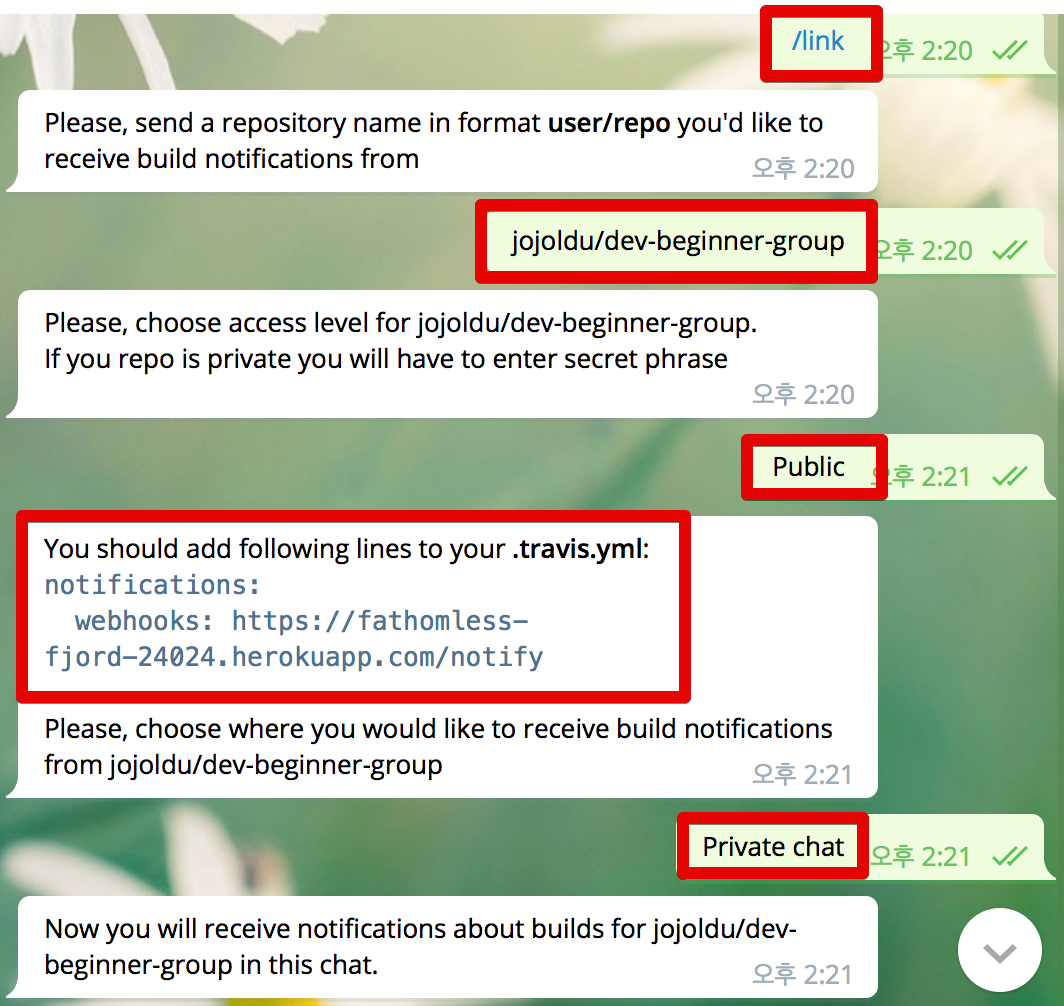
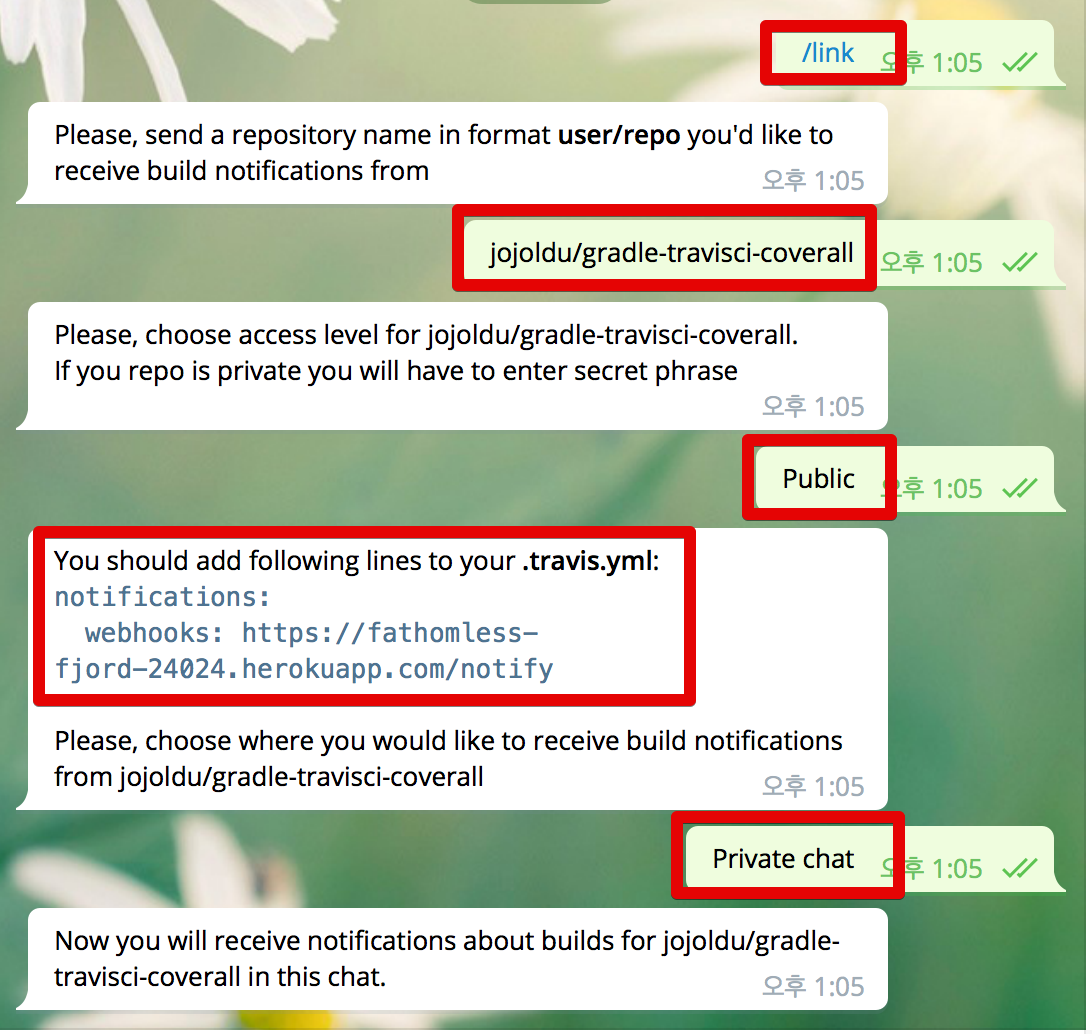
완성

Changed region(s): [[0.0, 0.0, 1.0, 1.0]]

diff --git a/README.md b/README.md
@@ -258,4 +258,18 @@ notifications:
 
 ![telegram3](./images/telegram3.png)
 
-자 여기까지 다하셨으면 바로 Github으로 Push 해봅니다.
+자 여기까지 다하셨으면 바로 Github으로 Push 해봅니다.  
+그러면!
+
+![telegram4](./images/telegram4.png)
+
+텔레그램으로 빌드 성공 메세지가 전달됩니다.  
+
+## 마무리
+
+이제는 개인프로젝트를 진행하면서도 **빌드 & 테스트 & 테스트커버리지 통계 & 빌드 성공/실패 알람** 이 모든것이 자동화되서 진행됩니다!  
+조금더 완성도 높은 개인 프로젝트를 진행하시는데 도움이 되지 않을까 생각합니다.  
+별거 아닌 내용이지만 실제로 적용하면 개인에겐 크게 도움이 되니 꼭꼭 적용해보시길 추천드립니다.  
+다음에도 유용한 정보 공유드리겠습니다.  
+끝까지 봐주셔서 감사합니다!!
+  
